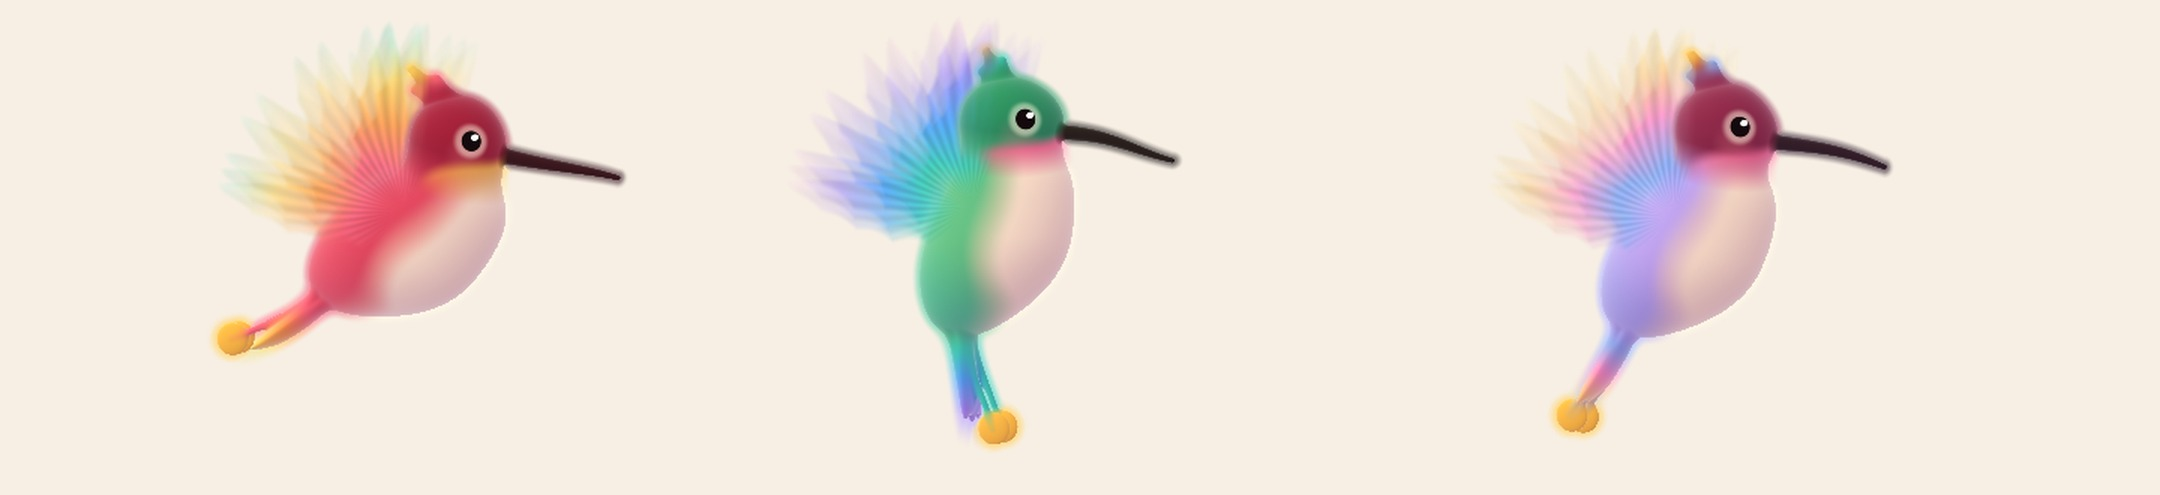
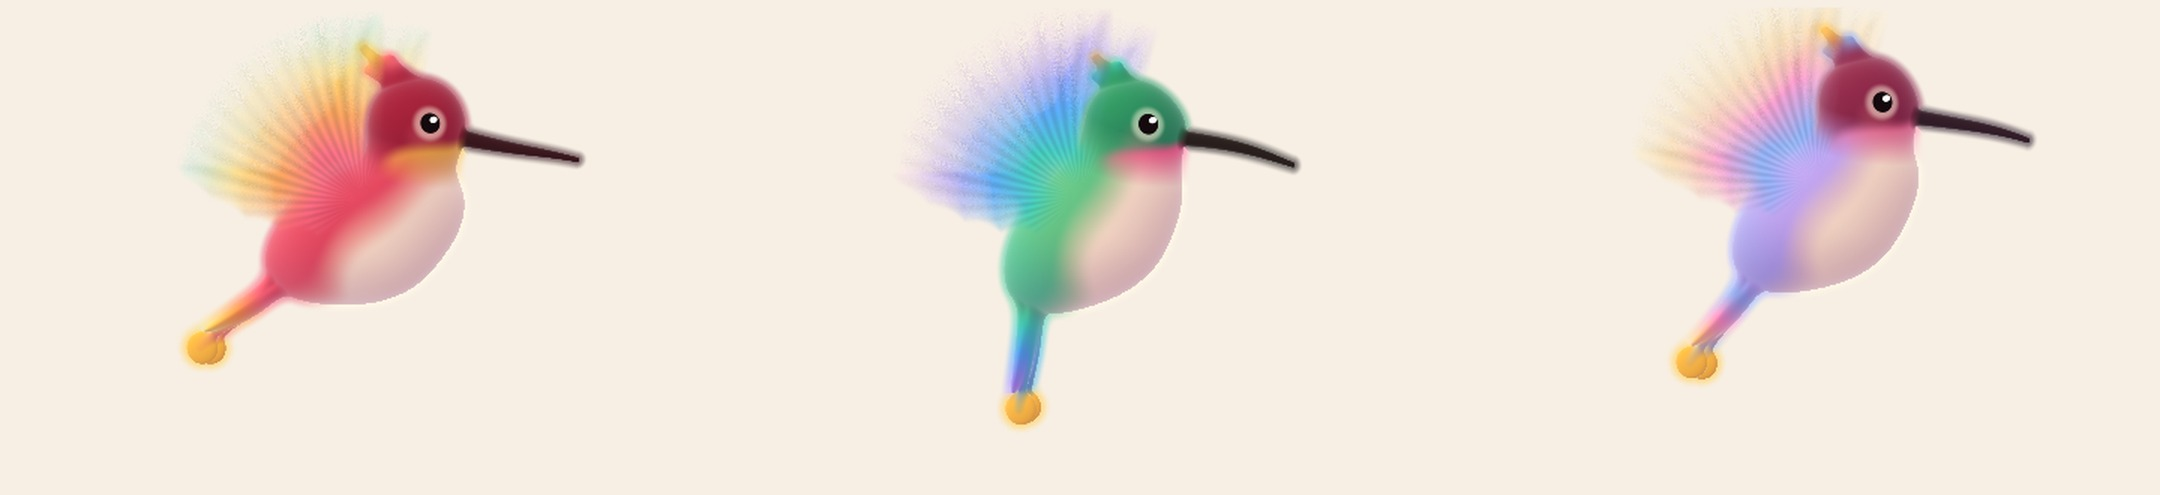
Mascot: soften the wing blur into a fine feathered fan

Changed region(s): [[0.6824, 0.0303, 0.9616, 0.8788], [0.3722, 0.0606, 0.6204, 0.9091], [0.062, 0.0606, 0.3102, 0.7576]]

diff --git a/docs/design/mascot/src/hummingbird-painted.html b/docs/design/mascot/src/hummingbird-painted.html
@@ -55,10 +55,11 @@ vec4 wing(vec2 uv, vec2 S, float ph, float nr){
   float A=uWp.x, W=uWp.y, b=uWp.z, o=uWp.w; float Lf=mix(.78, (nr>.5)?1.04:.9, o); float pf=uB.z+3.1416+.1;
   vec2 v=uv-S; if (length(v)>Lf*1.12) return vec4(0.);
   float acc=0., ua=0.;
-  for (int i=0;i<12;i++){ float pi=ph+b*3.1416*(float(i)/11.*2.-1.); float f=mix(pf, A+W*sin(pi)-((nr>.5)?0.:.2), o); vec2 dr=vec2(cos(f),sin(f)); float a=dot(v,dr), c=dot(v,vec2(-dr.y,dr.x)), u=a/Lf;
+  float jt=fract(sin(dot(gl_FragCoord.xy,vec2(12.9898,78.233)))*43758.5453)-.5;
+  for (int i=0;i<20;i++){ float pi=ph+b*3.1416*((float(i)+jt*.9)/19.*2.-1.); float f=mix(pf, A+W*sin(pi)-((nr>.5)?0.:.2), o); vec2 dr=vec2(cos(f),sin(f)); float a=dot(v,dr), c=dot(v,vec2(-dr.y,dr.x)), u=a/Lf;
     float s=pow(max(sin(3.1416*pow(clamp(u,0.,1.),.62)),0.),.7); float wt=Lf*mix(.34,.25,o)*s*(1.-.13*abs(sin(u*16.)))+.01, wl=Lf*.06*s+.012;
     float cv=smoothstep(wt,wt-.04,c)*smoothstep(-wl,-wl+.03,c)*smoothstep(1.02,.93,u)*smoothstep(-.05,.02,u); acc+=cv; ua+=u*cv; }
-  float cov=acc/12.; if (cov<.003) return vec4(0.); float u=ua/acc;
+  float cov=acc/20.; if (cov<.003) return vec4(0.); float u=ua/acc;
   float al=clamp(cov*mix(1.,2.7,b),0.,1.)*mix(1.,.9,b);
   float th=atan(v.y,v.x);
   vec3 g=pal(u*1.03+.05*sin(th*5.+uX.y*2.)); g*=.94+.06*sin(th*50.+u*9.);
